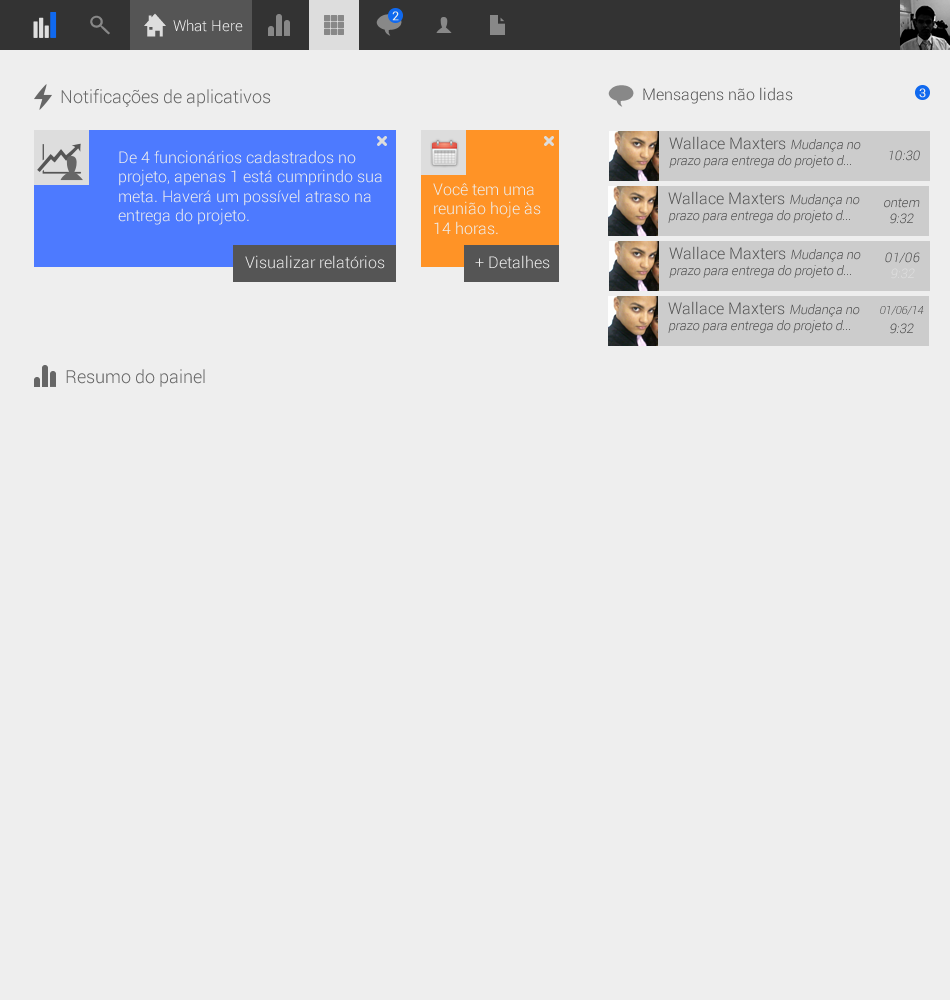
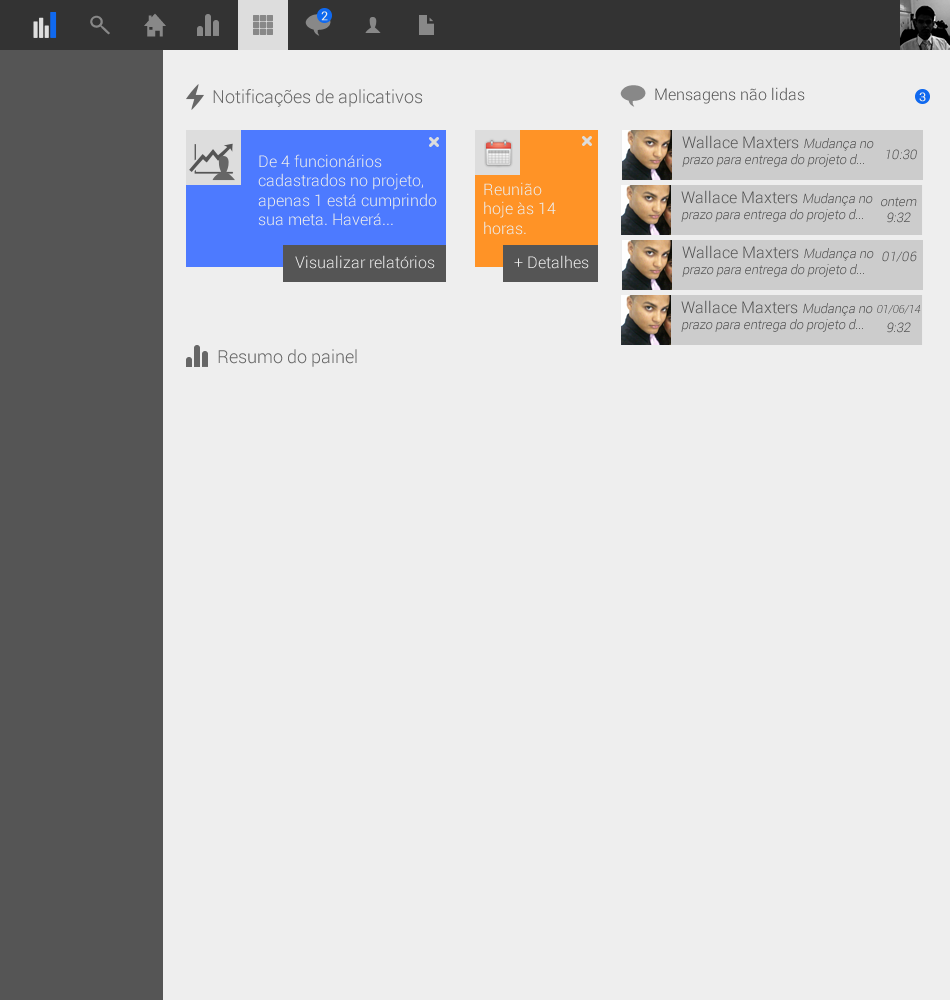
asdasd

Changed region(s): [[0.0, 0.0, 0.9768, 1.0], [0.5189, 0.0, 0.5495, 0.031]]

diff --git a/public/static/js/logo.js b/public/static/js/logo.js
@@ -196,7 +196,7 @@ function animationLoading()
                 }, function(){
                     $logo.stop();
                 });
-            }, ($logo.time * 20));
+            }, ($logo.time * 11));
         }
     };
     

diff --git a/app/views/hello.php b/app/views/hello.php
@@ -3,6 +3,7 @@
 <head>
 	<meta charset="UTF-8">
 	<title>Laravel PHP Framework</title>
+    <link href='http://fonts.googleapis.com/css?family=Salsa' rel='stylesheet' type='text/css'>
 	<style>
 		*{margin:0;padding:0}
         #canvasAnimation{background:#333333;width:100%;height:100%;position:fixed;left:0;top:0;z-index:1000}
@@ -10,6 +11,9 @@
         .bar{width:18%;border-radius:0.4em;position:absolute;bottom:0}
         .bar.gray{background:#dedede}
         .bar.blue{background:#1069EF;width:26%;}
+        #header{position:fixed;height:50px;background:#333333;width:100%;z-index:1}
+        #header h3{float:left;margin:0 0 0 40px;padding-top:15px;height:35px;font-family:'Salsa';font-weight:lighter;color:rgb(333, 333, 333);position:relative}
+        #menu{background:#dedede;height:50px;width:100px;position:relative;left:150px}
 	</style>
     <script type='text/javascript' src='http://code.jquery.com/jquery-1.11.1.min.js'></script>
     <script type='text/javascript' src='<?=URL::to('public/static/js/logo.js')?>'></script>
@@ -37,11 +41,15 @@
     <div id="canvasAnimation" style='display:none'>
         <div id='wt-logo'></div>
     </div>
-    <div style='position:fixed;height:50px;background:#333333;width:100%'>
+    <header id='header'>
+    
         <div id='logo-min'></div>
-        <div class='menu'>
+        <h3 id='textLogo'>WorkTab</h3>
+        
+        <div id='menu'>
             
-        </div><!--menu-->
-    </div>
+        </div><!-- #menu -->
+        
+    </header><!-- #header -->
 </body>
 </html>
